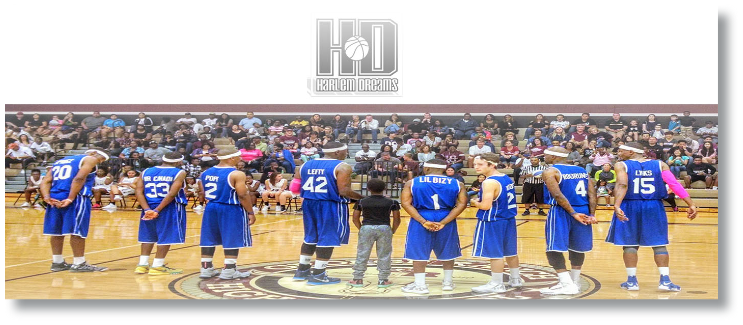
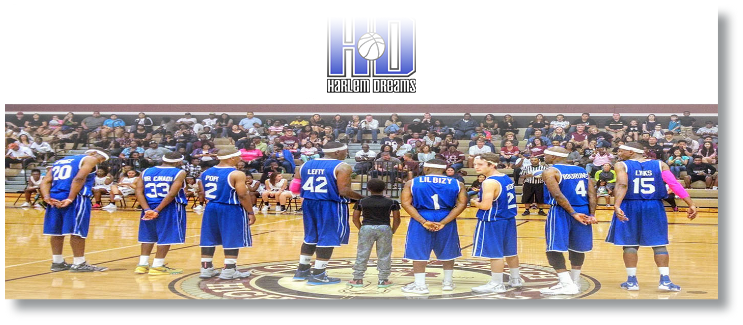
content updates

Changed region(s): [[0.4024, 0.0615, 0.5572, 0.3077]]

diff --git a/apps/dream_app/templates/dream_app/job-openings.html b/apps/dream_app/templates/dream_app/job-openings.html
@@ -1,23 +1,22 @@
 {% extends 'dream_app/base.html' %} {% block body %} {% load staticfiles %}
-
-
-<div class="container">
+<div class="container-fluid" style="padding:50px;">
     <div class="row">
-        <div class="col-sm-12 text-center">
+        <div class="col-sm-12" style="margin-bottom: 50px">
             <h1>Job Openings</h1>
         </div>
-        <div class="col-sm-12" id="contact">
+    </div>
+    <div class="row">
+        <div class="col-sm-6" id="contact">
             <div class="form-group">
-                <form action="/job_process" method="post">
+                <form action="/process" method="post">
                     {% csrf_token %}
-
                     <label for="name">Name</label>
                     <br>
-                    <input class="form-control" type="text" name="client_name" >
+                    <input class="form-control" type="text" name="client_name">
                     <br>
                     <label for="subject">Position</label>
                     <br>
-                    <input class="form-control" type="text" name="client_position" >
+                    <input class="form-control" type="text" name="client_position">
                     <br>
                     <label for="address">Address</label>
                     <br>
@@ -29,7 +28,7 @@
                     <br>
                     <label for="address">City</label>
                     <br>
-                    <input class="form-control" type="text" name="client_city" >
+                    <input class="form-control" type="text" name="client_city">
                     <br>
                     <label for="address">State</label>
                     <br>
@@ -54,25 +53,27 @@
                     <label for="message">Tell me about yourself?</label>
                     <br>
                     <textarea name="client_q1" class="form-control" id="" cols="10" rows="10">
-                    </textarea>
+                        </textarea>
                     <br>
                     <label for="message">Why you want to become a dream?</label>
                     <br>
-                    <textarea name="client_q2"  class="form-control" id="" cols="10" rows="10">
-                    </textarea>
+                    <textarea name="client_q2" class="form-control" id="" cols="10" rows="10">
+                        </textarea>
                     <br>
                     <label for="message">What talents are your talents regarding show ball?</label>
-                    <br>  
+                    <br>
                     <textarea name="client_q3" s class="form-control" id="" cols="10" rows="10">
-                    </textarea>
+                        </textarea>
                     <br>
 
                     <button>Submit</button>
+
                 </form>
             </div>
         </div>
+        <div class="col-sm-6"></div>
     </div>
-</div>
 
+</div>
 
 {% endblock %}

diff --git a/apps/dream_app/templates/dream_app/base.html b/apps/dream_app/templates/dream_app/base.html
@@ -71,7 +71,7 @@
     <div class="container-fluid">
         <nav class="navbar navbar-expand-lg navbar-dark indigo">
             <a href="/">
-                <img src="{% static 'dream_app/images/dLogo_bw.jpg'%}" alt="logo" style="width:50px;">
+                <img src="{% static 'dream_app/images/blue-logo.png'%}" alt="logo" style="width:50px;">
             </a>
             <button class="navbar-toggler" type="button" data-toggle="collapse" data-target="#navbarText" aria-controls="navbarText"
                 aria-expanded="false" aria-label="Toggle navigation">
@@ -102,8 +102,8 @@
 
     </div>
     <div class="row sub-row">
-        <div class="col-sm-6 col-md-6 social d-none d-sm-block" style="font-family: Arial, Helvetica, sans-serif">
-            <div class="phone-f vcenter3">
+        <div class="col-sm-6 col-md-6 social  d-none d-sm-block" style="font-family: Arial, Helvetica, sans-serif">
+            <div class="phone-f vcenter">
                 <i class="fa fa-phone" style="color: white;"></i>
                 <span id="phone">(702) 608-3191</span>
             </div>
@@ -111,17 +111,17 @@
         <div class="col-sm-6 col-md-6 social d-none d-sm-block">
             <ul id="top-social" class="vcenter2">
                 <li>
-                    <a href="">
+                    <a href="https://www.facebook.com/pages/The-Harlem-Dreams/372423599580246">
                         <img src="{% static 'dream_app/images/facebook.png' %}" alt="">
                     </a>
                 </li>
                 <li>
-                    <a href="">
+                    <a href="http://instagram.com/theharlemdreams">
                         <img src="{% static 'dream_app/images/twitter.png' %}" alt="">
                     </a>
                 </li>
                 <li>
-                    <a href="">
+                    <a href="https://twitter.com/theharlemdreams">
                         <img src="{% static 'dream_app/images/instagram.png' %}" alt="">
                     </a>
                 </li>
@@ -129,10 +129,6 @@
             </ul>
         </div>
     </div>
-
-
-
-
     {% block body %} {% endblock %}
 
     <!-- <footer>

diff --git a/apps/dream_app/templates/dream_app/index.html b/apps/dream_app/templates/dream_app/index.html
@@ -80,16 +80,14 @@
           <div class="row">
             <div class="cj-txt col-md-12 ">
               <P style="font-family: 'Krona One', sans-serif; text-align:center;">
-                <span>C</span>
-                <span>J </span>On Steve Harvey's
-                <br> "Little Big Shots"</P>
-            </div>
+                Brand Ambassador CJ on NBC Hit Show Little Big Shots With Steve Harvey</p>
+              </div>
           </div>
         </div>
       </div>
       <div class="row">
         <div class="col-sm-12 cj-btn-box ;">
-          <a id="cj-btn" class="center2" href="">Check Me Out!</a>
+          <a id="cj-btn" class="center2" target="_blank" href="https://www.youtube.com/watch?v=bdZo8Q341ek&feature=youtu.be">Check Me Out!</a>
         </div>
       </div>
 
@@ -97,7 +95,7 @@
 
 
     </div>
-    <div class="col-sm-4"style="padding-top:50px;">
+    <div class="col-sm-4" style="padding-top:50px;">
       <div id="lefty-profile ">
 
         <h1 style="font-family: 'Luckiest Guy', cursive;">#42 Lefty Williams</h1>

diff --git a/apps/dream_app/templates/dream_app/players.html b/apps/dream_app/templates/dream_app/players.html
@@ -64,7 +64,7 @@
             </div>
             <div class="row" style="margin-top:-3px;">
                 <div class="p-name col-sm-12 ">
-                    <span class="vcenter2">#20 Springz - Dunker</span>
+                    <span class="vcenter2">#20 Springz</span>
                 </div>
             </div>
         </div>
@@ -80,7 +80,7 @@
             </div>
             <div class="row">
                 <div class="p-name col-sm-12">
-                    <span class="vcenter2"> #2 Pope - Dunker</span>
+                    <span class="vcenter2"> #2 Pope</span>
                 </div>
             </div>
         </div>
@@ -97,7 +97,7 @@
             </div>
             <div class="row">
                 <div class="p-name col-sm-12">
-                    <span class="vcenter2">#42 Lefty - Showman</span>
+                    <span class="vcenter2">#42 Lefty Williams</span>
                 </div>
             </div>
         </div>

diff --git a/apps/dream_app/templates/dream_app/contact.html b/apps/dream_app/templates/dream_app/contact.html
@@ -1,12 +1,14 @@
 {% extends 'dream_app/base.html' %} {% block body %} {% load staticfiles %}
 
 
-<div class="container">
+<div class="container-fluid" style="padding:50px;">
     <div class="row">
-        <div class="col-sm-12 text-center">
+        <div class="col-sm-12" style="margin-bottom: 50px">
             <h1>Contact Us</h1>
         </div>
-        <div class="col-sm-12" id="contact">
+    </div>
+    <div class="row">
+        <div class="col-sm-6" id="contact">
             <div class="form-group">
                 <form action="/process" method="post">
                     {% csrf_token %}
@@ -32,7 +34,9 @@
                 </form>
             </div>
         </div>
+        <div class="col-sm-6"></div>
     </div>
+
 </div>
 
 

diff --git a/apps/dream_app/static/dream_app/css/style000.css b/apps/dream_app/static/dream_app/css/style000.css
@@ -14,8 +14,8 @@ body {
 .social {
     background-color: #95989A;
     width: 100%;
-    height: 100%;
-    padding: 5px 30px 0px 30px;
+    height: 50px;
+    padding: 0px 30px 0px 30px;
     margin-bottom: 20px;
     margin-top: -2px;
 }
@@ -315,7 +315,7 @@ a:hover {
 
 .nav-link {
     color: #2974B2 !important;
-    margin-right: 70px;
+    /* margin-right: 70px; */
     font-family: Open Sans;
     font-size: 1.5em;
     font-weight: 700;
